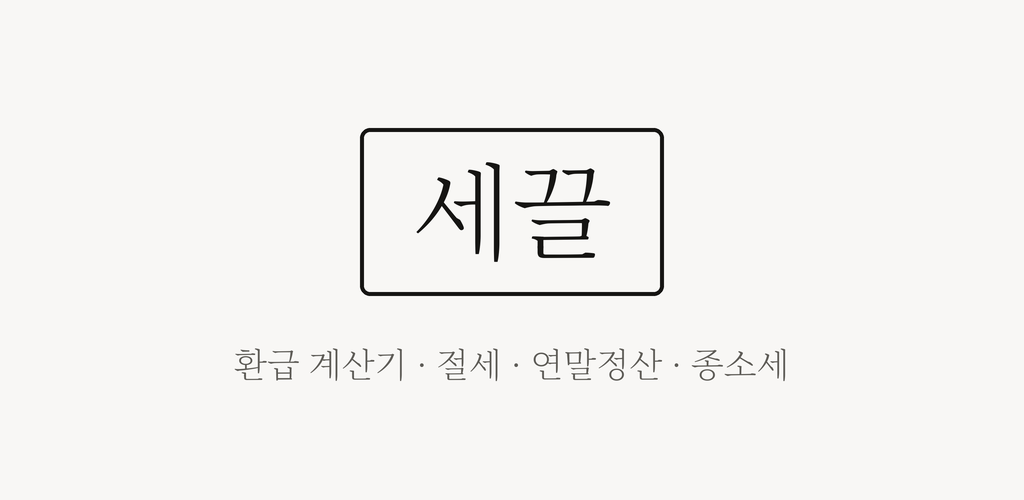
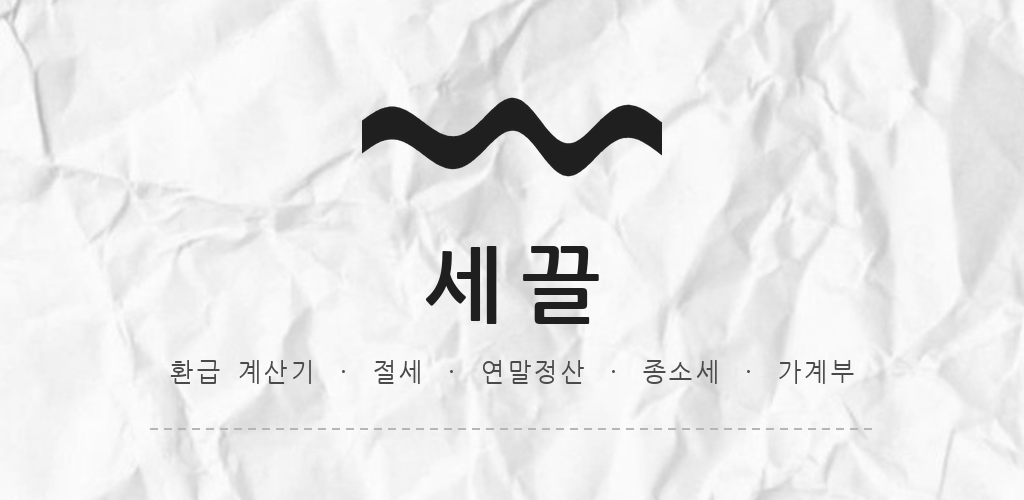
feat: 스토어에 올릴 아이콘과 그래픽 이미지를 앱과 같은 옷으로 다시 만든다
콘솔에 올라가 있던 건 블루프린트 시절 유물이었다 — 검은 역삼각형 아이콘과
크림 배경에 네모 두른 세리프 「세끌」. 앱은 영수증으로 갈아입었는데 스토어만
옛 옷이라 같은 앱으로 안 보인다.

앱 아이콘 512는 따로 그리지 않고 assets/icon/icon.png를 줄인다. 스토어에서
본 아이콘을 홈 화면에서 다시 찾을 때 눈이 헤매면 안 되고, 따로 그리면
언젠가 둘이 어긋난다.

그래픽 이미지는 앱이 실제로 쓰는 재료로만 만들었다 — 종이는 paper_1.jpg를
82%로(paperBackdrop과 같은 셈), 글꼴은 번들한 NanumGothicCoding, 물결은
AppTheme.waveMark의 상수 셋을 그대로 옮겼다.

물결은 아이콘 쪽이 아니라 **앱 머리 쪽**을 썼다. 아이콘의 물결은 타일을
가로지르는 굵은 띠라, 잘라내서 종이 위에 얹으면 위아래 여백을 잃고 검은
덩어리로 읽힌다.

diff --git a/design/make_store_assets.py b/design/make_store_assets.py
@@ -1,0 +1,125 @@
+"""스토어 등록정보에 올릴 두 장 — 앱 아이콘 512와 그래픽 이미지 1024x500.
+
+콘솔에 올라가 있던 것은 블루프린트 시절 유물이다(검은 역삼각형 + 크림 배경에
+네모 두른 세리프 「세끌」). 앱은 영수증으로 갈아입었는데 스토어만 옛 옷이라
+같은 앱으로 안 보인다.
+
+두 장 모두 **앱이 실제로 쓰는 재료**로만 만든다 — 물결은 make_icon_barcode의
+FINAL 그대로, 종이는 assets/textures/paper_1.jpg, 글꼴은 앱이 번들하는
+NanumGothicCoding. 스토어에서 본 인상과 열었을 때의 인상이 어긋나면 안 된다.
+
+    python design/make_store_assets.py
+"""
+
+from PIL import Image, ImageDraw, ImageFont
+
+from make_icon_barcode import INK, PAPER, wave
+
+SUB = (74, 74, 74)      # inkSecondary
+LINE = (182, 182, 182)  # 헤어라인
+
+KR_BOLD = 'assets/fonts/NanumGothicCoding-Bold.ttf'
+KR = 'assets/fonts/NanumGothicCoding-Regular.ttf'
+
+
+def store_icon(path='design/store_icon_512.png'):
+    """512 정사각 스토어 아이콘.
+
+    런처에 깔린 것과 **같은 그림**이어야 한다. 사용자가 스토어에서 본 아이콘을
+    홈 화면에서 다시 찾을 때 눈이 헤매면 안 되므로 assets/icon/icon.png를
+    그대로 줄인다 — 따로 그리면 언젠가 둘이 어긋난다.
+
+    알파는 넣지 않는다(스토어 규정). 물결은 좌우 끝까지 흘려보내되 모서리는
+    비어 있어서, Play가 씌우는 둥근 마스크에 잘릴 것이 없다.
+    """
+    im = Image.open('assets/icon/icon.png').convert('RGB')
+    im.resize((512, 512), Image.LANCZOS).save(path)
+    print(path, '512x512')
+
+
+def _mark(w, h, color=INK, ss=4):
+    """앱 머리의 물결(AppTheme.waveMark)을 그대로 그린다.
+
+    상수 셋은 `_WaveMarkPainter`에서 가져왔다 — 파장을 고정하고 봉우리 수를
+    폭에서 뽑기 때문에, 크기를 바꿔도 물결 모양은 그대로고 양 끝만 잘린다.
+    PIL에는 안티에일리어싱이 없어 [ss]배로 그린 뒤 줄인다.
+    """
+    LOBE_SPAN, AMP_R, TH_R, HITCH = 1.45, 0.17, 0.40, 1
+    W, H = w * ss, h * ss
+    lobes = (W / H) / LOBE_SPAN
+    amp, th = H * AMP_R, H * TH_R
+    # 봉우리가 위아래로 넘치지 않을 만큼만 키운다 — 아이콘 쪽과 같은 규칙.
+    hitch_k = min(1.6, max(0.25, (H * 0.5 - th / 2) / amp - 1))
+    im = Image.new('RGBA', (W, H), (0, 0, 0, 0))
+    d = ImageDraw.Draw(im)
+    up = wave(0, W, H / 2 - th / 2, lobes, amp, HITCH, hitch_k=hitch_k)
+    lo = wave(0, W, H / 2 + th / 2, lobes, amp, HITCH, hitch_k=hitch_k)
+    d.polygon(up + lo[::-1], fill=color + (255,))
+    return im.resize((w, h), Image.LANCZOS)
+
+
+def _tracked(d, xy, text, font, fill, track=0.0, anchor_center=False):
+    """자간을 벌려 한 줄 찍고 그 폭을 돌려준다.
+
+    PIL에는 자간이 없다. 절 머리(`01 · 이번 달 수입`)의 넓은 자간이 이 앱
+    글자의 인상을 만들기 때문에 한 자씩 놓아 흉내낸다.
+    """
+    widths = [d.textlength(c, font=font) for c in text]
+    total = sum(widths) + track * (len(text) - 1)
+    x, y = xy
+    if anchor_center:
+        x -= total / 2
+    for c, w in zip(text, widths):
+        d.text((x, y), c, font=font, fill=fill)
+        x += w + track
+    return total
+
+
+def feature_graphic(path='design/feature_graphic.png'):
+    """1024x500 그래픽 이미지 — 영수증 한 장의 머리.
+
+    Play는 이 그림을 자르거나 위에 재생 버튼을 얹을 수 있으므로 뜻이 있는 것은
+    가운데 몰아 둔다. 가장자리에는 종이만 남긴다.
+    """
+    W, H = 1024, 500
+
+    # ── 바탕: 앱과 같은 종이 사진 ──
+    # 앱은 종이색 위에 사진을 82%로 얹는다(AppTheme.paperBackdrop). 같은 셈을
+    # 여기서도 한다 — 사진만 쓰면 스토어에서 너무 어둡고 얼룩져 보인다.
+    src = Image.open('assets/textures/paper_1.jpg').convert('RGB')
+    r = max(W / src.width, H / src.height)
+    src = src.resize((round(src.width * r), round(src.height * r)), Image.LANCZOS)
+    left, top = (src.width - W) // 2, (src.height - H) // 2
+    photo = src.crop((left, top, left + W, top + H))
+    im = Image.blend(Image.new('RGB', (W, H), PAPER), photo, 0.82)
+    d = ImageDraw.Draw(im)
+
+    # ── 물결 ──
+    # 아이콘의 물결이 아니라 **앱 머리의 물결**이다(AppTheme.waveMark).
+    # 아이콘 쪽은 타일을 가로지르는 굵은 띠라, 잘라내서 종이 위에 얹으면
+    # 위아래 여백을 잃고 검은 덩어리로 읽힌다. 스토어에서 본 마크와 앱을 열어
+    # 처음 보는 마크가 같아야 하므로 머리 쪽 규칙(_WaveMarkPainter)을 옮겼다.
+    mw, mh = 300, round(300 / (84 / 23))   # 앱 머리와 같은 가로세로비
+    im.paste(_mark(mw, mh), (W // 2 - mw // 2, 96), _mark(mw, mh))
+
+    # ── 워드마크와 한 줄 ──
+    _tracked(d, (W / 2, 244), '세끌', ImageFont.truetype(KR_BOLD, 84), INK,
+             track=14, anchor_center=True)
+    _tracked(d, (W / 2, 360), '환급 계산기 · 절세 · 연말정산 · 종소세 · 가계부',
+             ImageFont.truetype(KR, 25), SUB, track=1.5, anchor_center=True)
+
+    # ── 절취선 ──
+    # 영수증이라고 말하지 않고 영수증으로 보이게 하는 건 결국 이 한 줄이다.
+    y = 428
+    x = 150
+    while x < W - 150:
+        d.line([(x, y), (x + 7, y)], fill=LINE, width=2)
+        x += 14
+
+    im.save(path)
+    print(path, f'{W}x{H}')
+
+
+if __name__ == '__main__':
+    store_icon()
+    feature_graphic()
